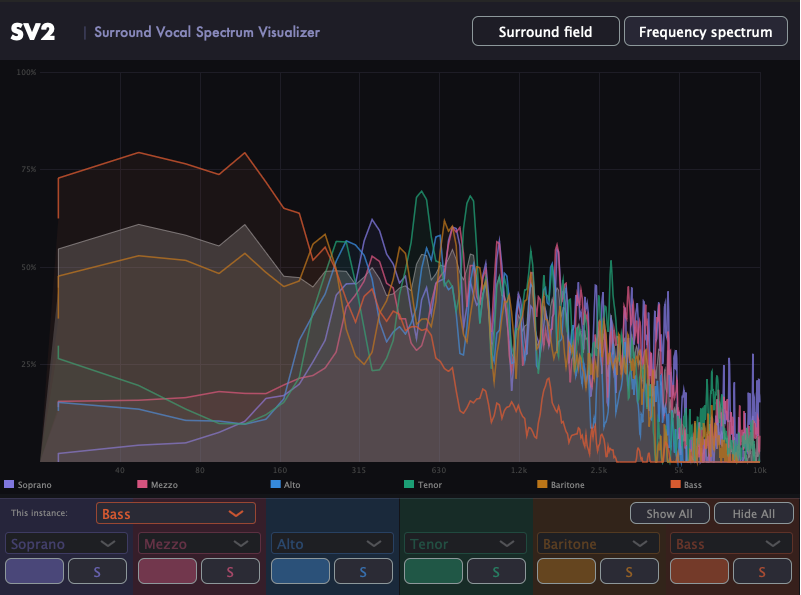
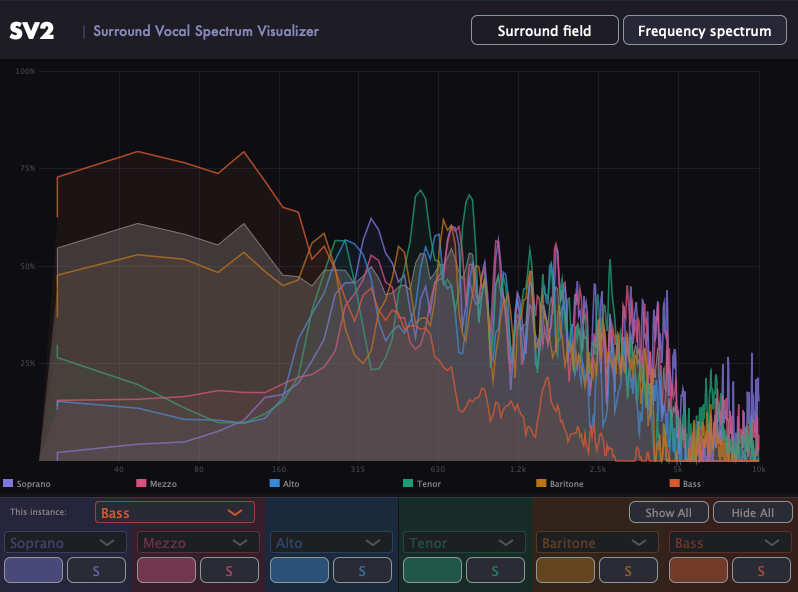
projects page description addons and image preview

diff --git a/app/projects/page.tsx b/app/projects/page.tsx
@@ -1,6 +1,7 @@
 "use client";
 
-import { motion, type Variants } from "motion/react";
+import { useState, useEffect, useCallback } from "react";
+import { motion, AnimatePresence, type Variants} from "motion/react";
 import { withBasePath } from "@/lib/basePath";
 import Image from "next/image";
 
@@ -34,7 +35,81 @@ const tech = [
   { name: "AAX", url: "https://developer.avid.com/aax/" },
 ];
 
+const projectImages = [
+  {
+    src: "/images/SV2/surroundfield.png",
+    alt: "SV2 surround field visualization",
+    caption:
+      "The spatial visualization window displays the placement and relative level of vocal groups throughout a 5.1 surround field.",
+  },
+  {
+    src: "/images/SV2/frequency_spectrum.png",
+    alt: "SV2 frequency spectrum visualization",
+    caption:
+      "Real-time frequency analysis provides visual feedback for identifying spectral overlap and masking between vocal groups.",
+  },
+  {
+    src: "/images/SV2/solo_elements.png",
+    alt: "SV2 solo elements view",
+    caption:
+      "Individual vocal elements can be isolated to examine their spatial position, level, and spectral characteristics in greater detail.",
+  },
+    {
+    src: "/images/SV2/routing.png",
+    alt: "SV2 routing setup",
+    caption:
+      "SV2 is inserted across grouped vocal buses inside the DAW, allowing each section of the arrangement to be monitored independently.",
+  },
+];
+
 export default function ProjectsPage() {
+  const [activeImage, setActiveImage] = useState<number | null>(null);
+
+  const showPrev = useCallback(() => {
+    setActiveImage((current) => {
+      if (current === null) return current;
+
+      return (
+        (current - 1 + projectImages.length) %
+        projectImages.length
+      );
+    });
+  }, []);
+
+  const showNext = useCallback(() => {
+    setActiveImage((current) => {
+      if (current === null) return current;
+
+      return (current + 1) % projectImages.length;
+    });
+  }, []);
+
+  // keyboard controls
+  useEffect(() => {
+    if (activeImage === null) return;
+
+    function handleKeyDown(event: KeyboardEvent) {
+      if (event.key === "Escape") {
+        setActiveImage(null);
+      }
+
+      if (event.key === "ArrowLeft") {
+        showPrev();
+      }
+
+      if (event.key === "ArrowRight") {
+        showNext();
+      }
+    }
+
+    window.addEventListener("keydown", handleKeyDown);
+
+    return () => {
+      window.removeEventListener("keydown", handleKeyDown);
+    };
+  }, [activeImage, showPrev, showNext]);
+
+  
   return (
     <div className="relative">
       {/* Purple gradient band, fading down into the page background */}
@@ -70,15 +145,21 @@ export default function ProjectsPage() {
             Surround Vocal Spectrum Visualizer - SV2
           </h2>
 
-          <p className="mt-3 max-w-3xl text-base leading-relaxed text-foreground/80">
-            A real-time audio visualizer plugin built in C++ with the JUCE
-            framework, designed for use directly inside DAW applications
-            including Logic Pro X, Pro Tools, Cubase, and Reaper. Exported via
-            VST3, AU, and AAX formats for full compatibility with major DAWs.
+          <p className="mt-3 max-w-3xl text-lg italic leading-relaxed text-foreground/70">
+            A real-time audio visualizer plugin built in{" "}
+            <strong className="font-semibold text-foreground/90">
+              C++ with the JUCE framework
+            </strong>
+            , designed for use directly inside DAW applications including Logic Pro X,
+            Pro Tools, Cubase, and Reaper. Exported via VST3, AU, and AAX formats.
           </p>
 
+          <h3 className="mt-10 text-xs font-semibold uppercase tracking-[0.2em] text-purple">
+            Motivation
+          </h3>
+
           <p className="mt-3 max-w-3xl text-base leading-relaxed text-foreground/80">
-            Stemming from my passion for a cappella — the composition of music
+            Stemming from my passion for <strong>a cappella </strong>— the composition of music
             centered around the human voice without external instruments,
             particularly in choir and collegiate groups — I wanted to create a
             new way to understand what is happening within a vocal mix.  Various
@@ -90,17 +171,64 @@ export default function ProjectsPage() {
             better decide of stylistic choices and make adjustments to the mix.
             </p>
             
+
+          <h3 className="mt-10 text-xs font-semibold uppercase tracking-[0.2em] text-purple">
+            Development
+          </h3>  
           <p className="mt-3 max-w-3xl text-base leading-relaxed text-foreground/80">
             Through my education at Berklee Valencia, I developed foundational knowledge 
             in signal flow, audio processing, and surround sound mixing in Dolby
             Atmos, which gave me the inspiration to create a plugin that 
             visualizes the spatial distribution of elements in a mix. Leveraging 
-            my experience in C++ and the JUCE framework, I built a plugin that
-            provides real-time visual feedback of the frequency spectrum and 
-            spatial positioning of vocal elements, allowing users to see how 
-            their mix is distributed across the surround field.
+            my experience in software development from my undergraduate studies, 
+            I developed a plugin that provides real-time visual feedback of the 
+            frequency spectrum and spatial positioning of vocal elements, 
+            allowing users to see how their mix is distributed across the surround field. 
           </p>
 
+          <p className="mt-3 max-w-3xl text-base leading-relaxed text-foreground/80">
+            The plugin uses different information parameters for the separate 
+            window monitoring to depict locational information in the surround 
+            space relative to the listener and the frequency spectrum of the 
+            audio signal. For the <strong>spatial visualization</strong>, the plugin uses
+            the relative signal level of each channel to determine the relative
+            volume coming out of each speaker in the source, which culminuates 
+            in a visual diagram similar to the polar pattern of a microhone,
+            where the center of the diagram represents the listener and the
+            speaker sources are points around the listener accompanied with their
+            respective labels - Left, Right, Center, Left Surround, Right Surround,
+            and a dedicated LFE meter for each channel toward the bottom of the
+            plugin window close to the buttons. Given that lower frequency sends
+            are not typically used in a majority of the vocal mix, the LFE is 
+            mainly used in the Bass vocal group.
+          </p>
+
+          <p className="mt-3 max-w-3xl text-base leading-relaxed text-foreground/80">
+            For the <strong>frequency spectrum visualization</strong>, the plugin 
+            uses a Fast Fourier Transform (FFT) to analyze the audio signal and
+            display the frequency content of the signal in real-time. The plugin
+            displays a frequency spectrum graph that shows the amplitude of the
+            audio signal across different frequencies, allowing users to see how
+            the vocal elements are distributed across the frequency spectrum. 
+            While the spatial diagram is for monitoring the placement of vocal
+            elements in the surround field via panning, the frequency spectrum
+            is for monitoring the timbre of different groups to aid in identifying
+            spectral overlap and masking between groups, which can be a common
+            issue in acappella arrangements for clarity.
+          </p>
+          
+          <p className="mt-3 max-w-3xl text-base leading-relaxed text-foreground/80">
+            Aside from the core default functionalty of the plugin, I also implemented 
+            a few additional features to enhance the user experience. Both windows of 
+            the plugin include a <strong>solo</strong> feature that allows users to 
+            isolate specific vocal groups for more detailed analysis. It also includes
+            an overall input toggle to turn off specific signals from the mix, effectively
+            working as a mute button for a designated channel. These features allow the 
+            user to focus on specific elements of the mix and make more informed decisions,
+            as well as the overall context of the mix via panning choices and balance of the mix.
+          </p>
+
+          
           {/* Tech tags */}
           <div className="mt-4 flex flex-wrap gap-2">
             {tech.map((t) => (
@@ -124,7 +252,7 @@ export default function ProjectsPage() {
             className="group mt-14 flex max-w-3xl items-center justify-between border-t border-purple/30 py-5 transition-opacity hover:opacity-60"
           >
             <div>
-              <p className="text-xs uppercase tracking-[0.2em] text-purple">
+              <p className="text-lg uppercase tracking-[0.2em] text-purple">
                 Thesis Documentation
               </p>
               <p className="mt-1 font-sans text-lg font-medium">
@@ -139,23 +267,22 @@ export default function ProjectsPage() {
 
           {/* Project images */}
           <div className="mt-12 grid grid-cols-1 gap-4 sm:grid-cols-2">
-            {[
-              ["surroundfield.png", "SV2 surround field visualization"],
-              ["frequency_spectrum.png", "SV2 frequency spectrum visualization"],
-              ["routing.png", "SV2 routing setup"],
-              ["solo_elements.png", "SV2 solo elements view"],
-            ].map(([src, alt]) => (
-              <div
-                key={src}
-                className="relative aspect-video overflow-hidden rounded-xl bg-black/5"
+            {projectImages.map((photo, index) => (
+              <button
+                key={photo.src}
+                type="button"
+                onClick={() => setActiveImage(index)}
+                className="group relative aspect-video overflow-hidden rounded-xl bg-black/5 cursor-zoom-in"
               >
                 <Image
-                  src={withBasePath(`/images/SV2/${src}`)}
-                  alt={alt}
+                  src={withBasePath(photo.src)}
+                  alt={photo.alt}
                   fill
-                  className="object-contain"
+                  className="object-cover transition-transform duration-300 group-hover:scale-[1.02]"
                 />
-              </div>
+
+                <div className="pointer-events-none absolute inset-0 bg-black/0 transition-colors duration-300 group-hover:bg-black/10" />
+              </button>
             ))}
           </div>
 
@@ -197,6 +324,81 @@ export default function ProjectsPage() {
 
         </motion.div>
       </motion.section>
+
+      <AnimatePresence>
+        {activeImage !== null && (
+          <motion.div
+            initial={{ opacity: 0 }}
+            animate={{ opacity: 1 }}
+            exit={{ opacity: 0 }}
+            transition={{ duration: 0.2 }}
+            className="fixed inset-0 z-[100] flex items-center justify-center bg-black/90 p-6"
+            onClick={() => setActiveImage(null)}
+          >
+            <motion.div
+              key={activeImage}
+              initial={{ opacity: 0, scale: 0.96 }}
+              animate={{ opacity: 1, scale: 1 }}
+              exit={{ opacity: 0, scale: 0.96 }}
+              transition={{
+                duration: 0.2,
+                ease: [0.16, 1, 0.3, 1],
+              }}
+              className="flex max-h-[90vh] max-w-[90vw] flex-col items-center"
+              onClick={(event) => event.stopPropagation()}
+            >
+              <Image
+                src={withBasePath(projectImages[activeImage].src)}
+                alt={projectImages[activeImage].alt}
+                width={1920}
+                height={1080}
+                className="max-h-[75vh] w-auto max-w-[90vw] rounded-lg object-contain"
+              />
+
+              <p className="mt-5 max-w-2xl text-center text-sm leading-relaxed text-white/80 sm:text-base">
+                {projectImages[activeImage].caption}
+              </p>
+
+              <p className="mt-2 text-xs uppercase tracking-[0.2em] text-white/40">
+                {activeImage + 1} / {projectImages.length}
+              </p>
+            </motion.div>
+
+            <button
+              type="button"
+              onClick={(event) => {
+                event.stopPropagation();
+                showPrev();
+              }}
+              aria-label="Previous screenshot"
+              className="absolute left-4 top-1/2 flex h-12 w-12 -translate-y-1/2 items-center justify-center rounded-full bg-white/10 text-3xl text-white transition-colors hover:bg-white/20 sm:left-8"
+            >
+              &#8249;
+            </button>
+
+            <button
+              type="button"
+              onClick={(event) => {
+                event.stopPropagation();
+                showNext();
+              }}
+              aria-label="Next screenshot"
+              className="absolute right-4 top-1/2 flex h-12 w-12 -translate-y-1/2 items-center justify-center rounded-full bg-white/10 text-3xl text-white transition-colors hover:bg-white/20 sm:right-8"
+            >
+              &#8250;
+            </button>
+
+            <button
+              type="button"
+              onClick={() => setActiveImage(null)}
+              aria-label="Close preview"
+              className="absolute right-6 top-6 text-3xl text-white transition-opacity hover:opacity-60"
+            >
+              &times;
+            </button>
+          </motion.div>
+        )}
+      </AnimatePresence>
     </div>
   );
 }
